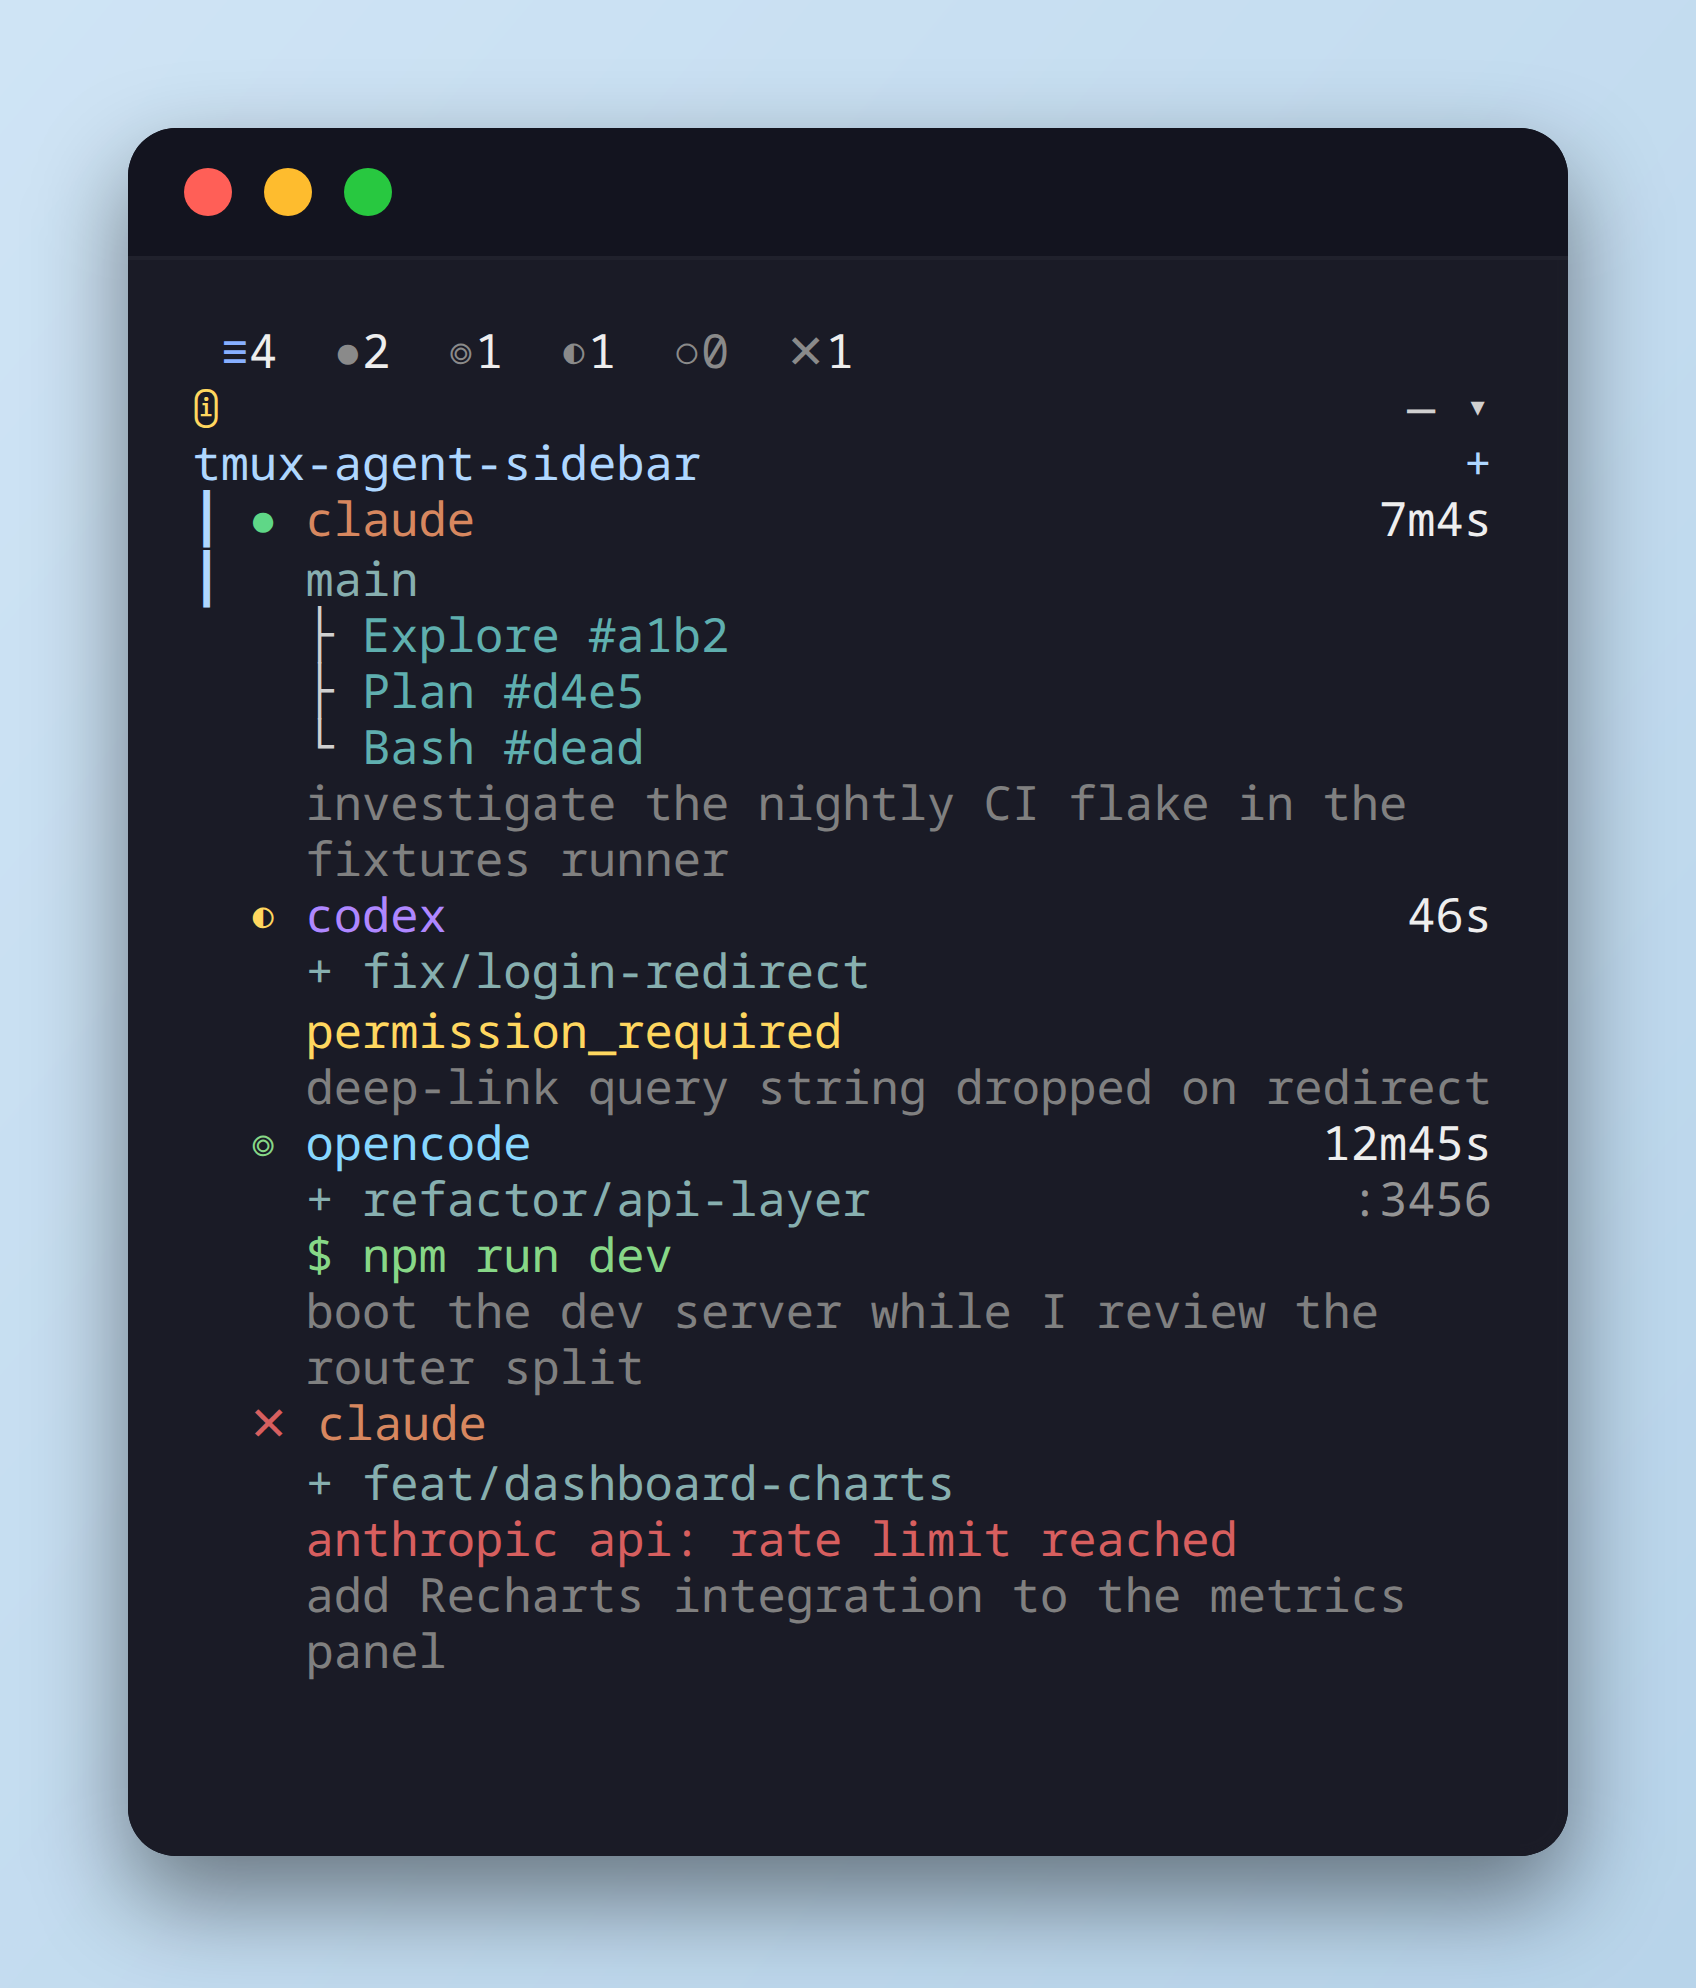
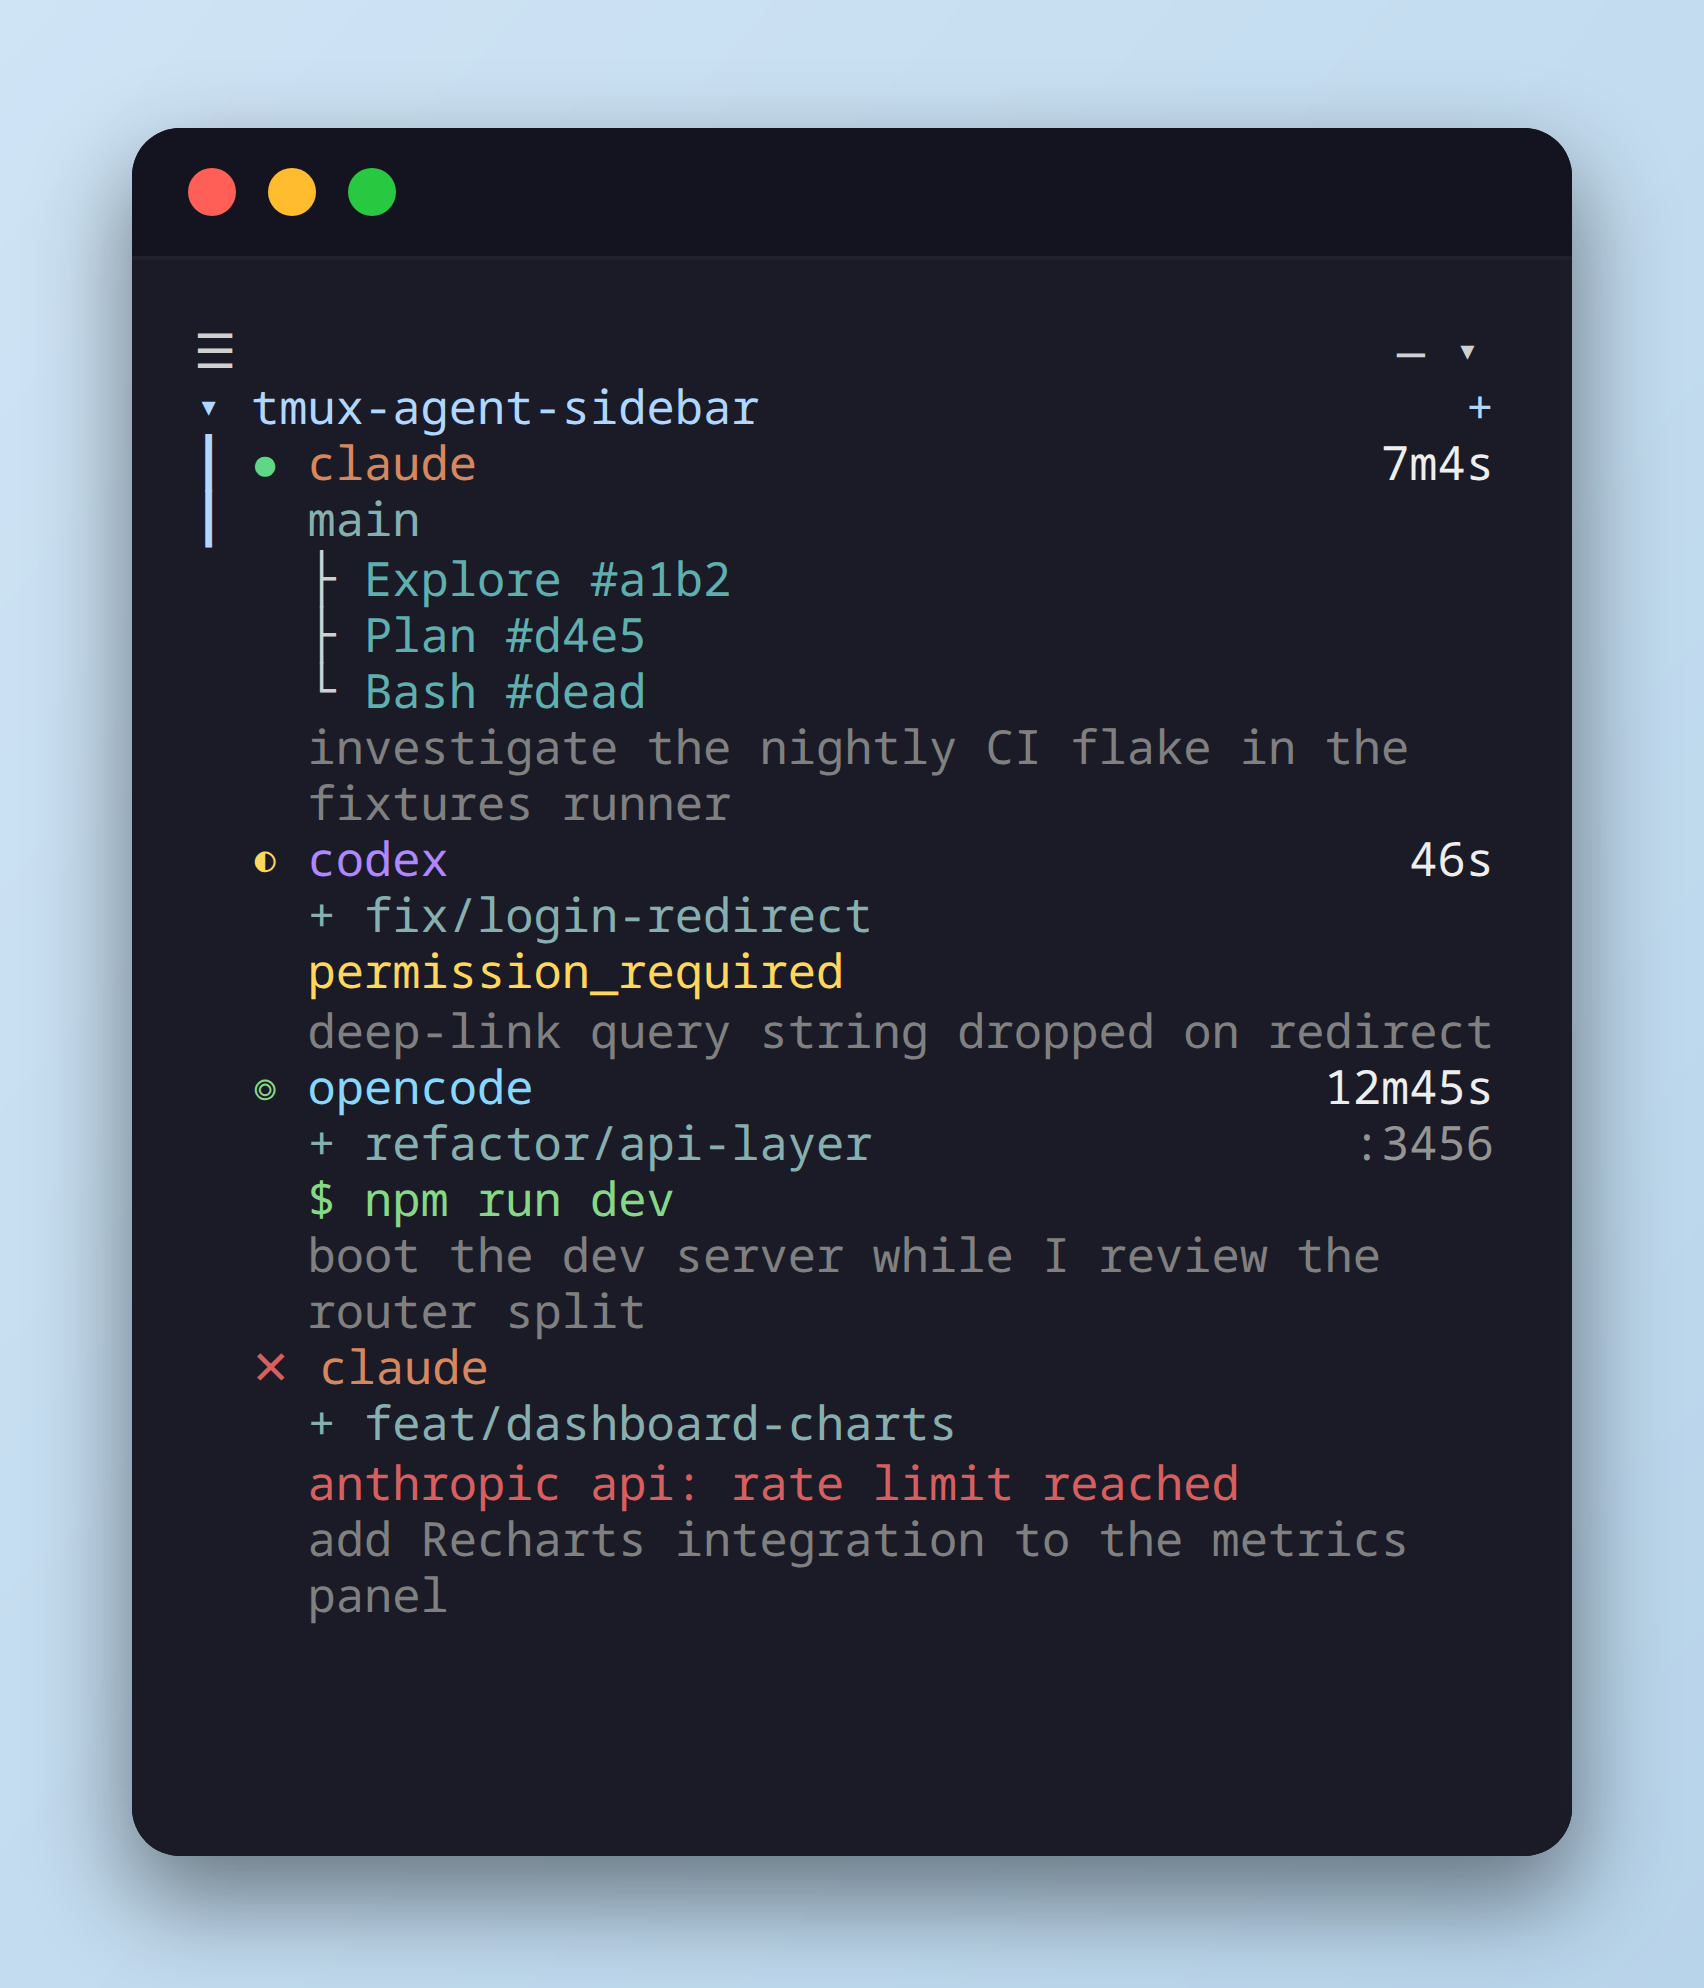
chore: refresh hero captures to the chyron-era UI and update README
The header-bearing captures were last regenerated before the chyron
event channel (#113): they still showed the removed status-filter counts
row and an uncollapsed-repo list without the click-to-fold caret.

- Regenerate hero (+og-image) and agent-pane-focus against the current
  release build; the repo header now shows the clickable fold caret and
  the todo panel keeps its pinned square-button header.
- Seed quiet setup notices in _lib.sh (byte-exact plugin cache + a
  generated codex hooks.json under a throwaway HOME) so the merged menu
  button rests at its quiet '—' state instead of an update nag that
  depends on the build machine's real ~/.claude and ~/.codex.
- README: mention the chyron, clickable group folds, the o overview
  grid, and the todo panel's edit/yank/resume surface.
- keybindings.md: drop the removed status-filter keys (h/l/Tab), fold
  the jump binding into Enter/l/Right, add o, and fix the stale
  filter-bar sentence — collapsed-group badges now carry the counts.

diff --git a/website/src/content/docs/reference/keybindings.md b/website/src/content/docs/reference/keybindings.md
@@ -15,15 +15,13 @@ description: Every shortcut in the sidebar, the worktree spawn modal, and the cl
 | `a`            | Jump to the next row that needs attention                     |
 | `g` / `G`      | Jump to the top / bottom of the list                          |
 | `[` / `]`      | Jump to the previous / next group header                      |
-| `z`            | Collapse / expand the selected group                          |
+| `z`            | Collapse / expand the selected group (clicking a group header folds it too) |
 | `Z`            | Expand every collapsed group                                  |
 | `s`            | Toggle repo / tmux-session grouping                           |
 | `PageUp` / `PageDown` | Page the agent list by a viewport                      |
-| `h` / `Left`   | Previous status filter                                        |
-| `l` / `Right`  | Next status filter; jump to the selected pane |
 | `r`            | Open repo filter popup                                        |
-| `Enter` / `→`  | Jump to the selected pane                                     |
-| `Tab`          | Cycle status filter                                           |
+| `Enter` / `l` / `Right` | Jump to the selected pane                            |
+| `o`            | Open the fullscreen agent overview grid popup                 |
 | `c`            | Toggle compact view (one line per agent)                      |
 | `w`            | Toggle listing non-agent panes (long-running tasks)           |
 | `t`            | Open the TODO panel; focus it when open, close it when focused |
@@ -38,7 +36,7 @@ Press `/` to filter the agent list without collapsing its groups. Matching is
 case-insensitive and checks each row's agent session title, tmux session name,
 and git branch. Typing a repo or tmux session name keeps the whole group
 visible; otherwise only rows whose own fields match are shown. Status counts
-in the filter bar follow the active query.
+in a collapsed group's badge follow the active query.
 
 | Key          | Action                                          |
 | ------------ | ----------------------------------------------- |

diff --git a/README.md b/README.md
@@ -8,10 +8,11 @@
 
 - Tracks Claude Code, Codex, OpenCode, Hermes, and Antigravity panes across all tmux sessions and windows
 - Live prompts, response previews, background shells, wait reasons, task progress, and subagent trees
+- A status chyron narrates each agent's latest move, group headers fold with a click, and `o` opens a fullscreen overview grid of every pane
 - Spawn a worktree + agent from the sidebar; tear down window, worktree, and branch in one keystroke
 - Plain shell panes are tracked too — long-running commands pulse as tasks, and an optional shell-integration snippet captures real exit codes
 - Desktop notifications when an agent finishes, needs permission, or errors out
-- A manual TODO list (`t`), shared across every open sidebar and saved between restarts
+- A manual TODO list (`t`), shared across every open sidebar and saved between restarts — edit in place, `y` yanks an item, and `r` relaunches a resume-shaped one in a new window
 
 ## Quick start
 
